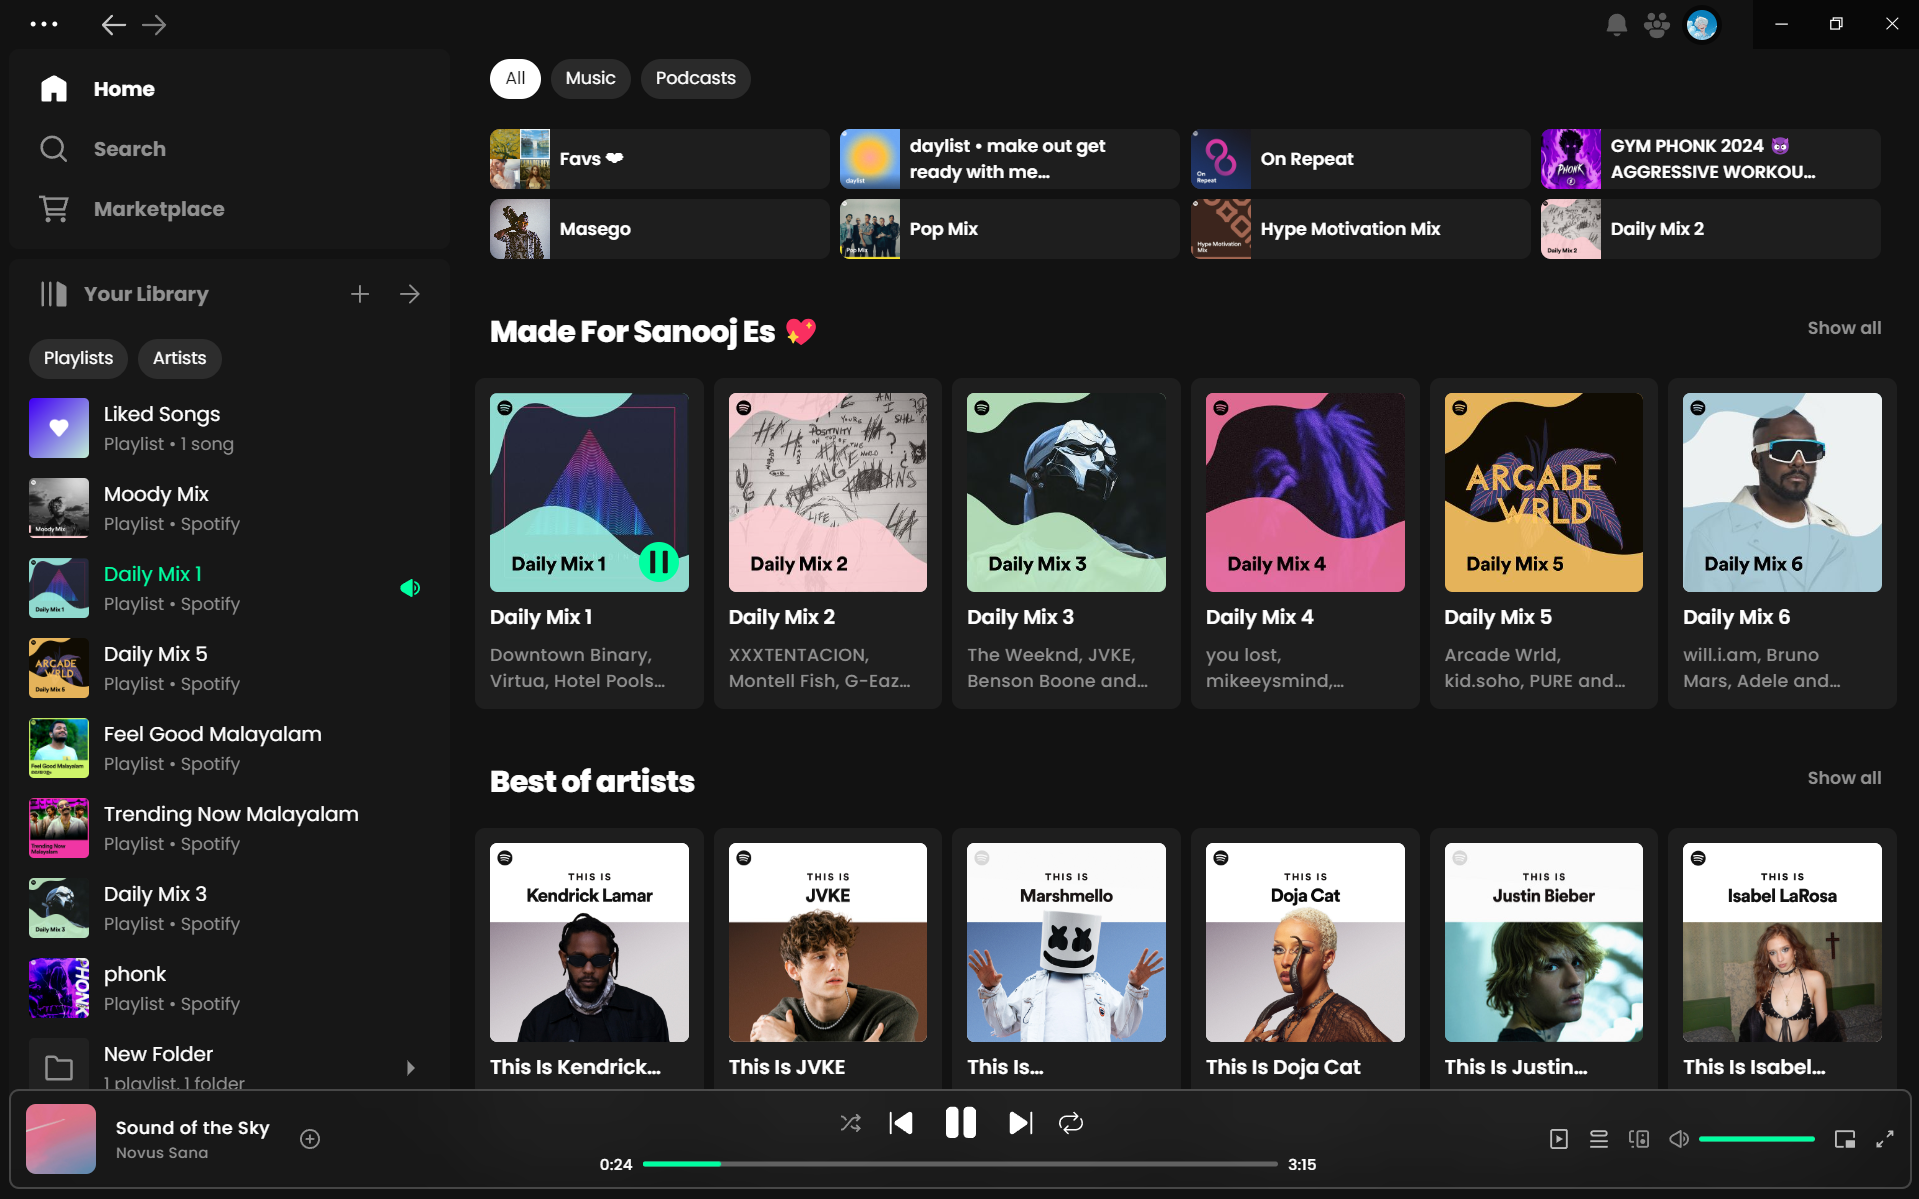
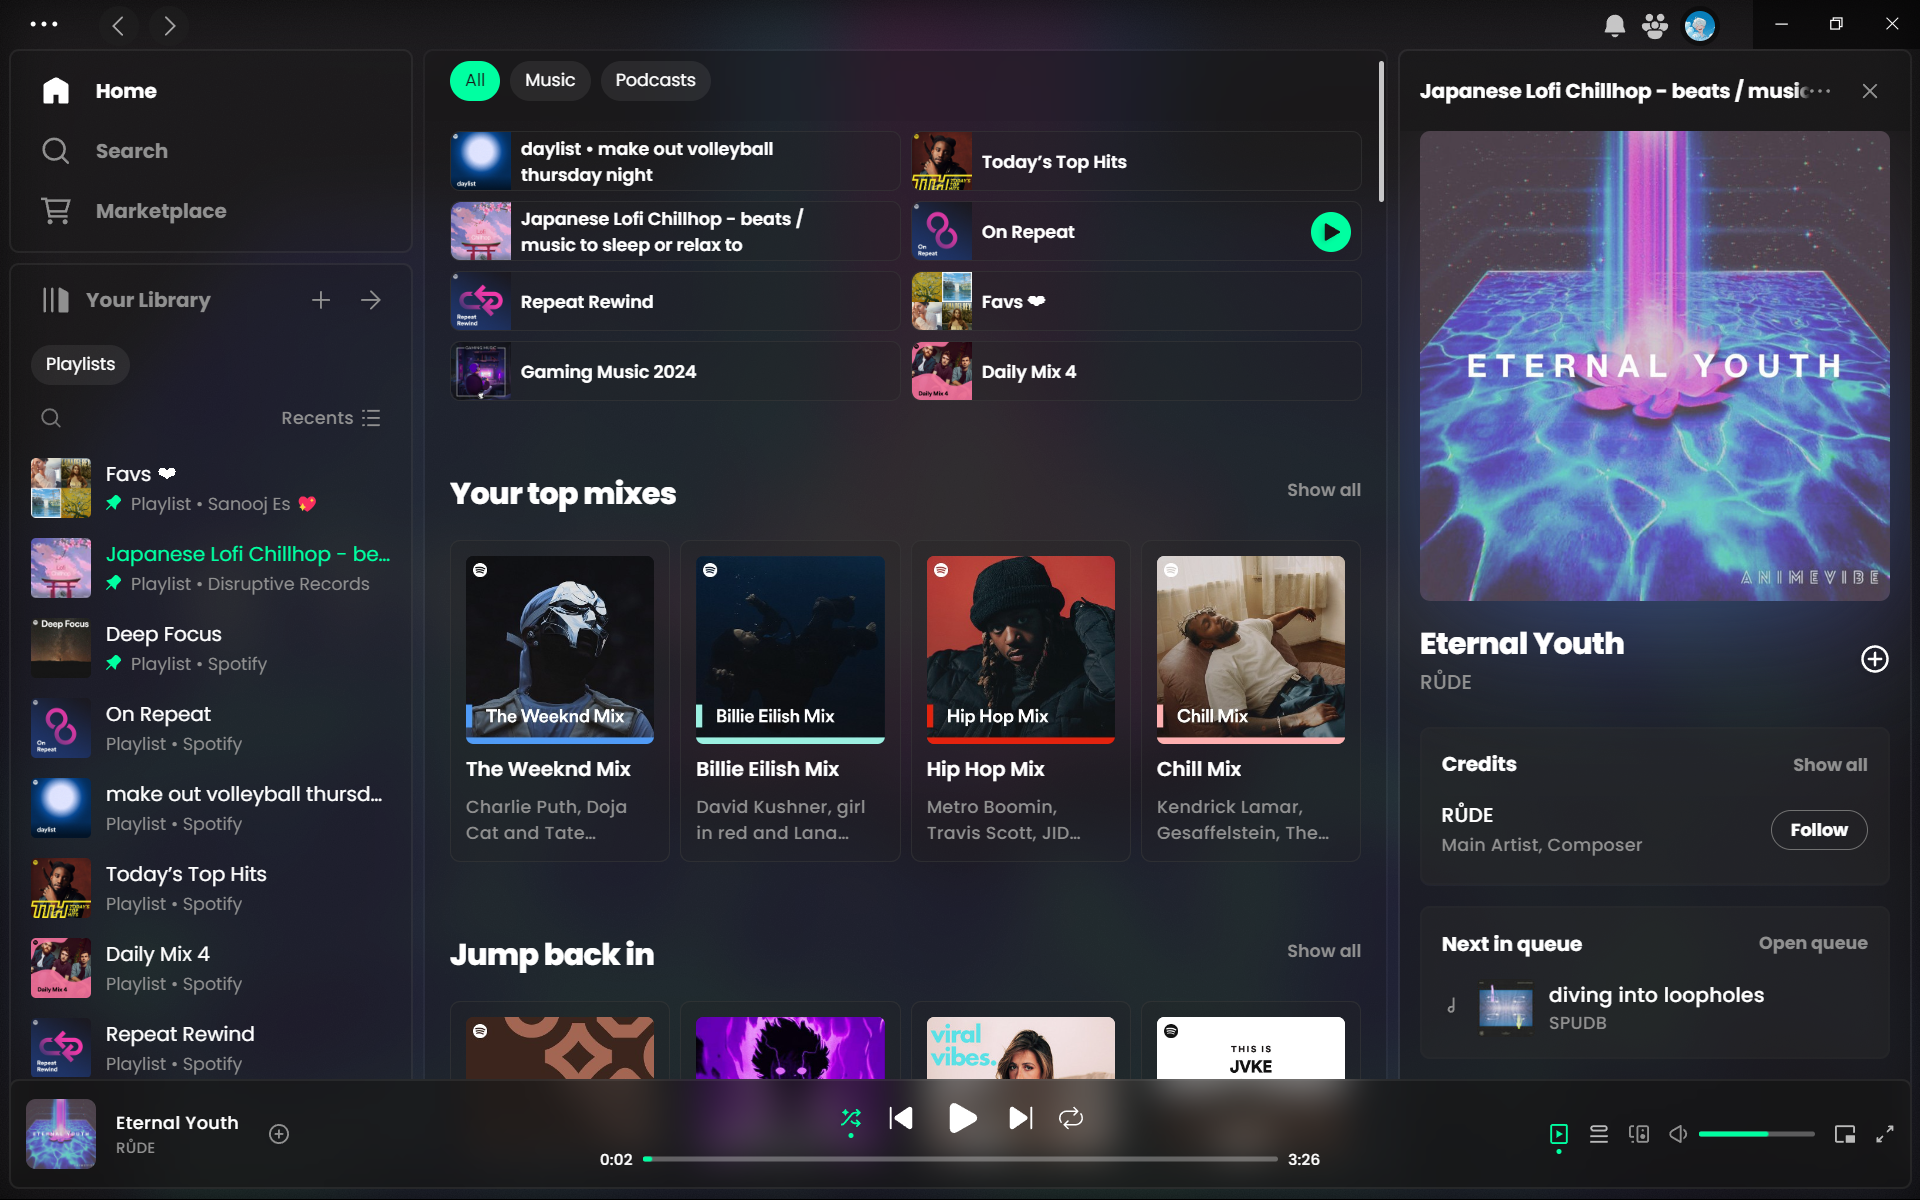
docs: update screenshots

diff --git a/README.md b/README.md
@@ -1,38 +1,46 @@
 # Better Bloom
 
-Minimal Bloom theme inspired by [Bloom](https://github.com/nimsandu/spicetify-bloom)
+Minimal and Dynamic Bloom theme inspired by [Bloom](https://github.com/nimsandu/spicetify-bloom)
 
 ## Screenshots
 
 ### Dark (default)
 
-![Dark Preview](./assets/images/base.png)
-![Dark 1 Preview](./assets/images/better-bloom-dark.png)
-![Dark 2 Preview](./assets/images/better-bloom-dark2.png)
+![Base Dark Preview](./assets/images/base.png)
+![Dark Preview 1](./assets/images/better-bloom-dark0.png)
+![Dark Preview 0](./assets/images/better-bloom-dark.png)
+![Dark 1 Preview 2](./assets/images/better-bloom-dark1.png)
+![Dark 2 Preview 3](./assets/images/better-bloom-dark2.png)
 
 ### Light
 
 ![Light Preview](./assets/images/better-bloom-light.png)
+![Light Preview 1](./assets/images/better-bloom-light1.png)
 
 ### Comfy
 
 ![Comfy Preview](./assets/images/better-bloom-comfy.png)
+![Comfy Preview 1](./assets/images/better-bloom-comfy1.png)
 
 ### Darkgreen
 
 ![DarkGreen Preview](./assets/images/better-bloom-darkgreen.png)
+![DarkGreen Preview 1](./assets/images/better-bloom-darkgreen1.png)
 
 ### Violet
 
 ![Violet Preview](./assets/images/better-bloom-violet.png)
+![Violet Preview 1](./assets/images/better-bloom-violet1.png)
 
 ### Dark-Fluent
 
 ![Dark-Fluent Preview](./assets/images/better-bloom-dark-fluent.png)
+![Dark-Fluent Preview 1](./assets/images/better-bloom-dark-fluent1.png)
 
 ### Dark-Bloom
 
 ![Dark-Bloom Preview](./assets/images/better-bloom-dark-bloom.png)
+![Dark-Bloom Preview 1](./assets/images/better-bloom-dark-bloom.png)
 
 ## Installation
 

diff --git a/README-Marketplace.md b/README-Marketplace.md
@@ -10,33 +10,41 @@
 
 ### Dark (default)
 
-![Dark Preview](./assets/images/base.png)
-![Dark 1 Preview](./assets/images/better-bloom-dark.png)
-![Dark 2 Preview](./assets/images/better-bloom-dark2.png)
+![Base Dark Preview](./assets/images/base.png)
+![Dark Preview 0](./assets/images/better-bloom-dark.png)
+![Dark Preview 1](./assets/images/better-bloom-dark0.png)
+![Dark 1 Preview 2](./assets/images/better-bloom-dark1.png)
+![Dark 2 Preview 3](./assets/images/better-bloom-dark2.png)
 
 ### Light
 
 ![Light Preview](./assets/images/better-bloom-light.png)
+![Light Preview 1](./assets/images/better-bloom-light1.png)
 
 ### Comfy
 
 ![Comfy Preview](./assets/images/better-bloom-comfy.png)
+![Comfy Preview 1](./assets/images/better-bloom-comfy1.png)
 
 ### Darkgreen
 
 ![DarkGreen Preview](./assets/images/better-bloom-darkgreen.png)
+![DarkGreen Preview 1](./assets/images/better-bloom-darkgreen1.png)
 
 ### Violet
 
 ![Violet Preview](./assets/images/better-bloom-violet.png)
+![Violet Preview 1](./assets/images/better-bloom-violet1.png)
 
 ### Dark-Fluent
 
 ![Dark-Fluent Preview](./assets/images/better-bloom-dark-fluent.png)
+![Dark-Fluent Preview 1](./assets/images/better-bloom-dark-fluent1.png)
 
 ### Dark-Bloom
 
 ![Dark-Bloom Preview](./assets/images/better-bloom-dark-bloom.png)
+![Dark-Bloom Preview 1](./assets/images/better-bloom-dark-bloom.png)
 
 ## Dependencies
 
